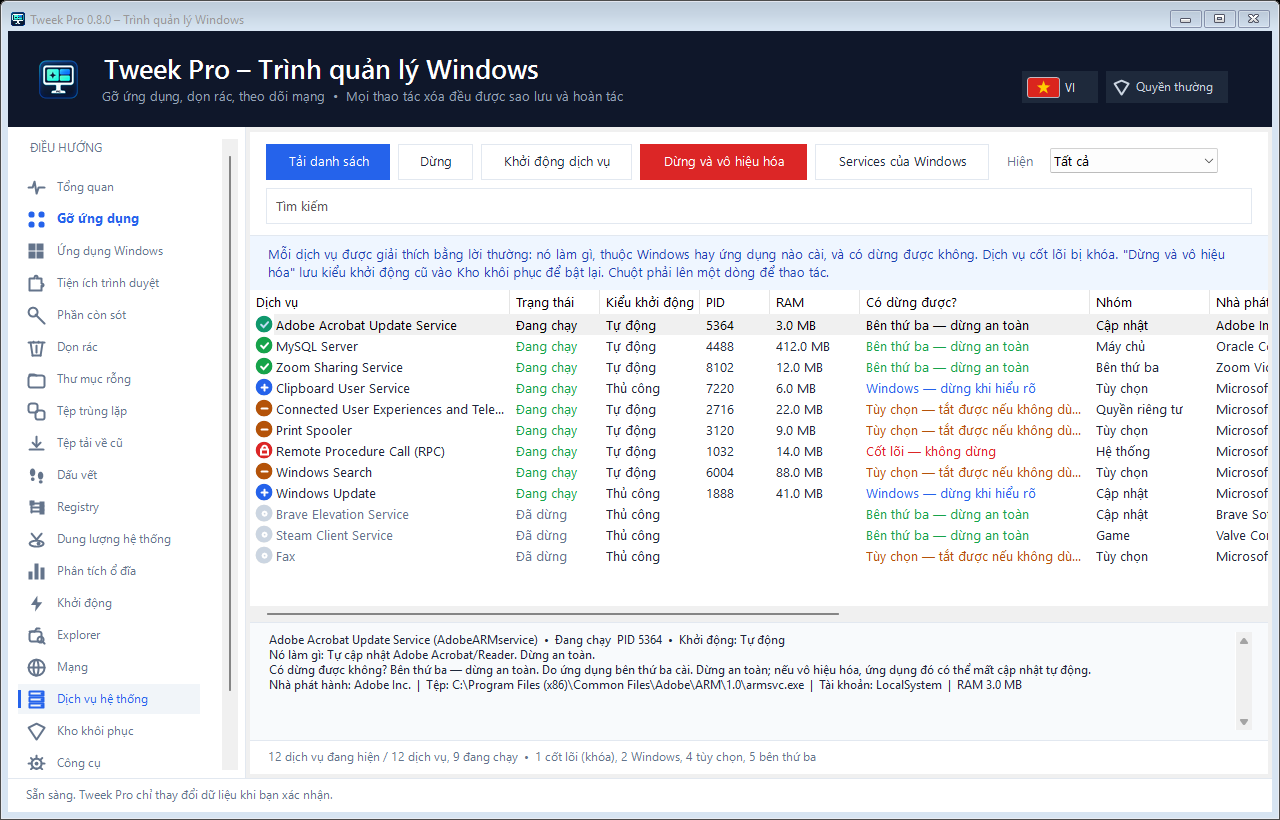
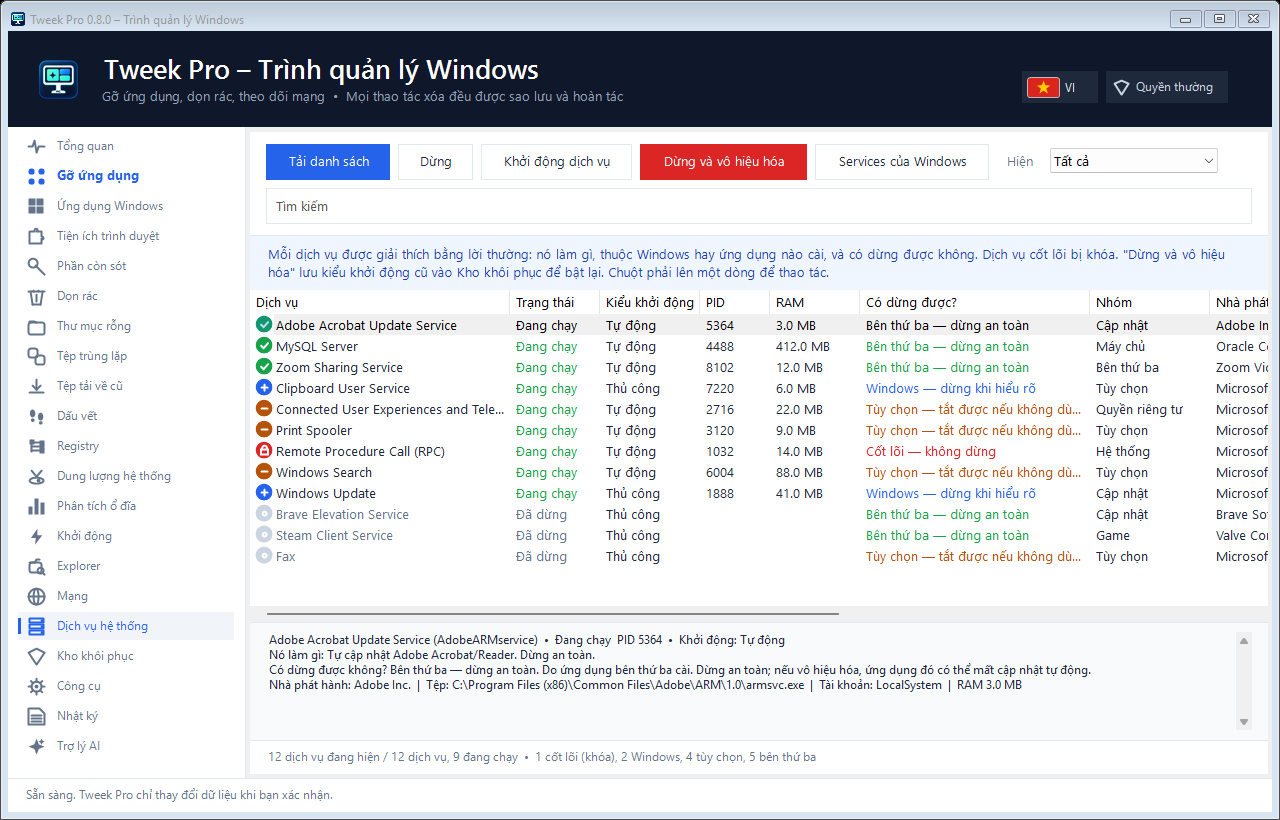
Fit all sidebar links without navigation caption

Changed region(s): [[0.0, 0.1524, 0.125, 0.5488], [0.0, 0.5793, 0.125, 0.9451]]

diff --git a/Navigation.cs b/Navigation.cs
@@ -11,7 +11,7 @@ namespace TweekPro {
   readonly FlowLayoutPanel menu=new FlowLayoutPanel();
   readonly Dictionary<TabPage,Button> links=new Dictionary<TabPage,Button>();
   public TabStrip(TabControl target){
-   tabs=target;Dock=DockStyle.Left;Width=238;BackColor=Theme.Surface;Padding=new Padding(10,12,8,8);
+   tabs=target;Dock=DockStyle.Left;Width=238;BackColor=Theme.Surface;Padding=new Padding(10,4,8,4);
    menu.Dock=DockStyle.Fill;menu.FlowDirection=FlowDirection.TopDown;menu.WrapContents=false;menu.AutoScroll=true;menu.BackColor=Theme.Surface;
    Controls.Add(menu);menu.SizeChanged+=(s,e)=>FitWidths();tabs.SelectedIndexChanged+=(s,e)=>SelectActive();
    Paint+=(s,e)=>{using(var p=new Pen(Theme.Border))e.Graphics.DrawLine(p,Width-1,0,Width-1,Height);};
@@ -28,7 +28,6 @@ namespace TweekPro {
   /// <summary>Builds links after the canonical page collection has been populated.</summary>
   public void Build(){
    menu.SuspendLayout();
-   var caption=new Label{Text=Core.L.T("ĐIỀU HƯỚNG"),ForeColor=Theme.Muted,Font=Theme.Small,Height=28,Margin=new Padding(10,0,0,4)};menu.Controls.Add(caption);
    foreach(TabPage p in tabs.TabPages)if(Branding.GlyphKey(p.Text)=="pulse")AddLink(menu,p);
    for(int i=0;i<3;i++)foreach(TabPage p in tabs.TabPages)if(Group(p)==i)AddLink(menu,p);
    foreach(TabPage p in tabs.TabPages)if(Group(p)<0&&Branding.GlyphKey(p.Text)!="pulse")AddLink(menu,p);
@@ -39,7 +38,7 @@ namespace TweekPro {
    var button=new Button{Text=title,AccessibleName=title,Height=30,Font=uninstall?Theme.Strong:Theme.Small,TextAlign=ContentAlignment.MiddleLeft,Padding=new Padding(34,0,0,0),FlatStyle=FlatStyle.Flat,Margin=new Padding(0,1,0,1),BackColor=Theme.Surface,ForeColor=Theme.Muted,Cursor=Cursors.Hand,AutoEllipsis=true};
    button.FlatAppearance.BorderSize=0;button.FlatAppearance.MouseOverBackColor=Theme.SoftButtonHover;
    button.Click+=(s,e)=>tabs.SelectedTab=page;
-   button.Paint+=(s,e)=>{float scale=button.Height/30f;Branding.DrawTabGlyph(e.Graphics,page.Text,new Rectangle((int)(10*scale),(button.Height-(int)(16*scale))/2,(int)(16*scale),(int)(16*scale)),button.ForeColor);if(tabs.SelectedTab==page)using(var b=new SolidBrush(Theme.Primary))e.Graphics.FillRectangle(b,0,6,3,button.Height-12);};
+   button.Paint+=(s,e)=>{float scale=button.DeviceDpi/96f;Branding.DrawTabGlyph(e.Graphics,page.Text,new Rectangle((int)(10*scale),(button.Height-(int)(16*scale))/2,(int)(16*scale),(int)(16*scale)),button.ForeColor);if(tabs.SelectedTab==page)using(var b=new SolidBrush(Theme.Primary))e.Graphics.FillRectangle(b,0,6,3,button.Height-12);};
    links.Add(page,button);parent.Controls.Add(button);
   }
   void SelectActive(){
@@ -47,8 +46,14 @@ namespace TweekPro {
    foreach(var pair in links){bool active=pair.Key==tabs.SelectedTab;pair.Value.BackColor=active?Theme.SoftButton:Theme.Surface;pair.Value.ForeColor=active||Branding.GlyphKey(pair.Key.Text)=="apps"?Theme.Primary:Theme.Muted;pair.Value.Invalidate();}
   }
   void FitWidths(){
-   int width=Math.Max(120,menu.ClientSize.Width-SystemInformation.VerticalScrollBarWidth-4);
-   foreach(Control c in menu.Controls)c.Width=width;
+   if(menu.Controls.Count==0)return;
+   float scale=DeviceDpi/96f;int gap=Math.Max(0,(int)scale);
+   int height=Math.Max((int)(22*scale),Math.Min((int)(30*scale),(menu.ClientSize.Height-2)/menu.Controls.Count-2*gap));
+   bool scroll=(height+2*gap)*menu.Controls.Count>menu.ClientSize.Height;
+   int width=Math.Max(120,menu.ClientSize.Width-(scroll?SystemInformation.VerticalScrollBarWidth:0)-4);
+   menu.SuspendLayout();menu.AutoScroll=scroll;
+   foreach(Control c in menu.Controls){c.Margin=new Padding(0,gap,0,gap);c.Size=new Size(width,height);}
+   menu.ResumeLayout(true);
   }
  }
 }

diff --git a/WORKSTATE.md b/WORKSTATE.md
@@ -2,12 +2,12 @@
 
 Updated: 2026-09-27 (Asia/Bangkok).
 Objective: simplify sidebar for nontechnical users, keep Applications/Cleanup fully expanded and make uninstall easy to find.
-Status: header refinement complete locally: flag + VI/EN button and compact shield privilege label, aligned 32px dark surfaces. Waiting for owner review. DO NOT PUSH or replace installed build until owner approves this iteration (explicit latest instruction). Base main/origin 2ee0c71.
+Status: removed navigation caption, reduced top padding and made row height adaptive; all 21 links fit without scrolling at tested window sizes. Opened for owner review. DO NOT PUSH or replace installed build until owner approves this iteration (explicit latest instruction). Base main/origin 2ee0c71.
 
 - One flat vertical list of 21 feature links with no group headings or nested panels. Uninstall apps remains bold blue directly below Overview; same order as previous review.
-- VI/EN translations and README pending 0.8.1 notes updated. All 22 tab screenshots regenerated locally in both languages; Vietnamese docs/screenshots; English in %TEMP%/TweekProUIReview-e7f265abab8d40149b975338bf6ca1e9/en.
-- Build: 0 warnings/errors. Full self-test attempt did not run because Windows elevation was cancelled; do not claim a new full PASS. VI/EN UI smoke PASS: 21 clickable/keyboard-focusable links, flat list contains exactly 21 buttons and only the navigation caption, six cleanup filters correct. git diff --check passed.
-- Review app launched from workspace bin/HeaderReview/TweekPro-0.8.0.exe, PID 51232. Existing installed 0.8.0 remains unchanged. User should review the workspace window.
+- VI/EN translations and README pending 0.8.1 notes updated. All 22 tab screenshots regenerated locally in both languages; Vietnamese docs/screenshots; English in %TEMP%/TweekProUIReview-c31ab63717ac4c8ba8853d5aed663cbd/en.
+- Build: 0 warnings/errors. Full self-test attempt did not run because Windows elevation was cancelled; do not claim a new full PASS. VI/EN UI smoke PASS: 21 clickable/keyboard-focusable links, flat list contains exactly 21 buttons with no captions; no scrollbar or clipped links at 1120x700 and 1280x820 in VI/EN, six cleanup filters correct. git diff --check passed.
+- Review app launched from workspace bin/FitReview/TweekPro-0.8.0.exe, PID 46648. Existing installed 0.8.0 remains unchanged. User should review the workspace window.
 - Next: collect owner feedback/approval, rerun full elevated self-test before distribution, then update GitHub and latest screenshots only after approval. No new tag/release created.
 - Previous v0.8.0 Release and installed build verified in prior checkpoint; installation backup remains %LOCALAPPDATA%/TweekPro-install-backup-20260927-161501.
-- Preserve untracked .bridge/ and .cursor/. No verification commands still running; review app intentionally remains open. Older review PIDs 49596 and 46340 were not closed. This local checkpoint is not a GitHub backup.
+- Preserve untracked .bridge/ and .cursor/. No verification commands still running; review app intentionally remains open. Older review PIDs 49596, 46340 and 51232 were not closed. This local checkpoint is not a GitHub backup.

diff --git a/README.md b/README.md
@@ -54,7 +54,7 @@ Tải bản mới nhất tại **[Releases](https://github.com/tuantien0001/Twee
 
 ## Các tab
 
-Thanh bên trái hiển thị các chức năng thành một danh sách dọc liên tục, không có tiêu đề nhóm hoặc nút thu gọn. **Gỡ ứng dụng** in đậm, nổi bật ngay dưới Tổng quan. Chọn mục bằng chuột hoặc phím Tab rồi Enter; cuộn thanh bên khi cửa sổ thấp.
+Thanh bên trái hiển thị các chức năng thành một danh sách dọc liên tục, không có tiêu đề nhóm hoặc nút thu gọn. **Gỡ ứng dụng** in đậm, nổi bật ngay dưới Tổng quan. Chọn mục bằng chuột hoặc phím Tab rồi Enter; chiều cao các hàng tự co giãn để hiện đủ chức năng ở kích thước cửa sổ thông thường.
 
 Kết quả dọn rác có bộ lọc theo trạng thái và khung đọc đầy đủ đường dẫn/lý do. **Chuyển vào Kho chưa giải phóng dung lượng**; có thể mở Kho ngay từ hộp kết quả để kiểm tra trước khi xóa vĩnh viễn.
 
@@ -256,7 +256,7 @@ Chưa bật/tắt tiện ích trình duyệt tại chỗ (chỉ gỡ). Cài bả
 
 - **Thanh tiêu đề gọn hơn**: nút ngôn ngữ có cờ và mã VI/EN, nhãn quyền có biểu tượng khiên và nền tối nhẹ; hai mục cùng chiều cao, căn thẳng hàng.
 
-- **Điều hướng dễ dùng**: hiển thị toàn bộ chức năng theo thứ tự trong một danh sách dọc; bỏ tiêu đề nhóm và nút thu gọn. Mục **Gỡ ứng dụng** in đậm, màu nổi bật; hàng gọn hơn để thấy nhiều chức năng, thanh bên không tự nhảy khi đổi tab.
+- **Điều hướng dễ dùng**: hiển thị toàn bộ chức năng theo thứ tự trong một danh sách dọc; bỏ tiêu đề nhóm, chữ Điều hướng và nút thu gọn; giảm khoảng trống trên cùng, tự co chiều cao hàng để hiện đủ 21 mục mà không cần cuộn ở kích thước cửa sổ thông thường. Mục **Gỡ ứng dụng** in đậm, màu nổi bật; hàng gọn hơn để thấy nhiều chức năng, thanh bên không tự nhảy khi đổi tab.
 
 ### 0.8.0 (27/09/2026)
 
